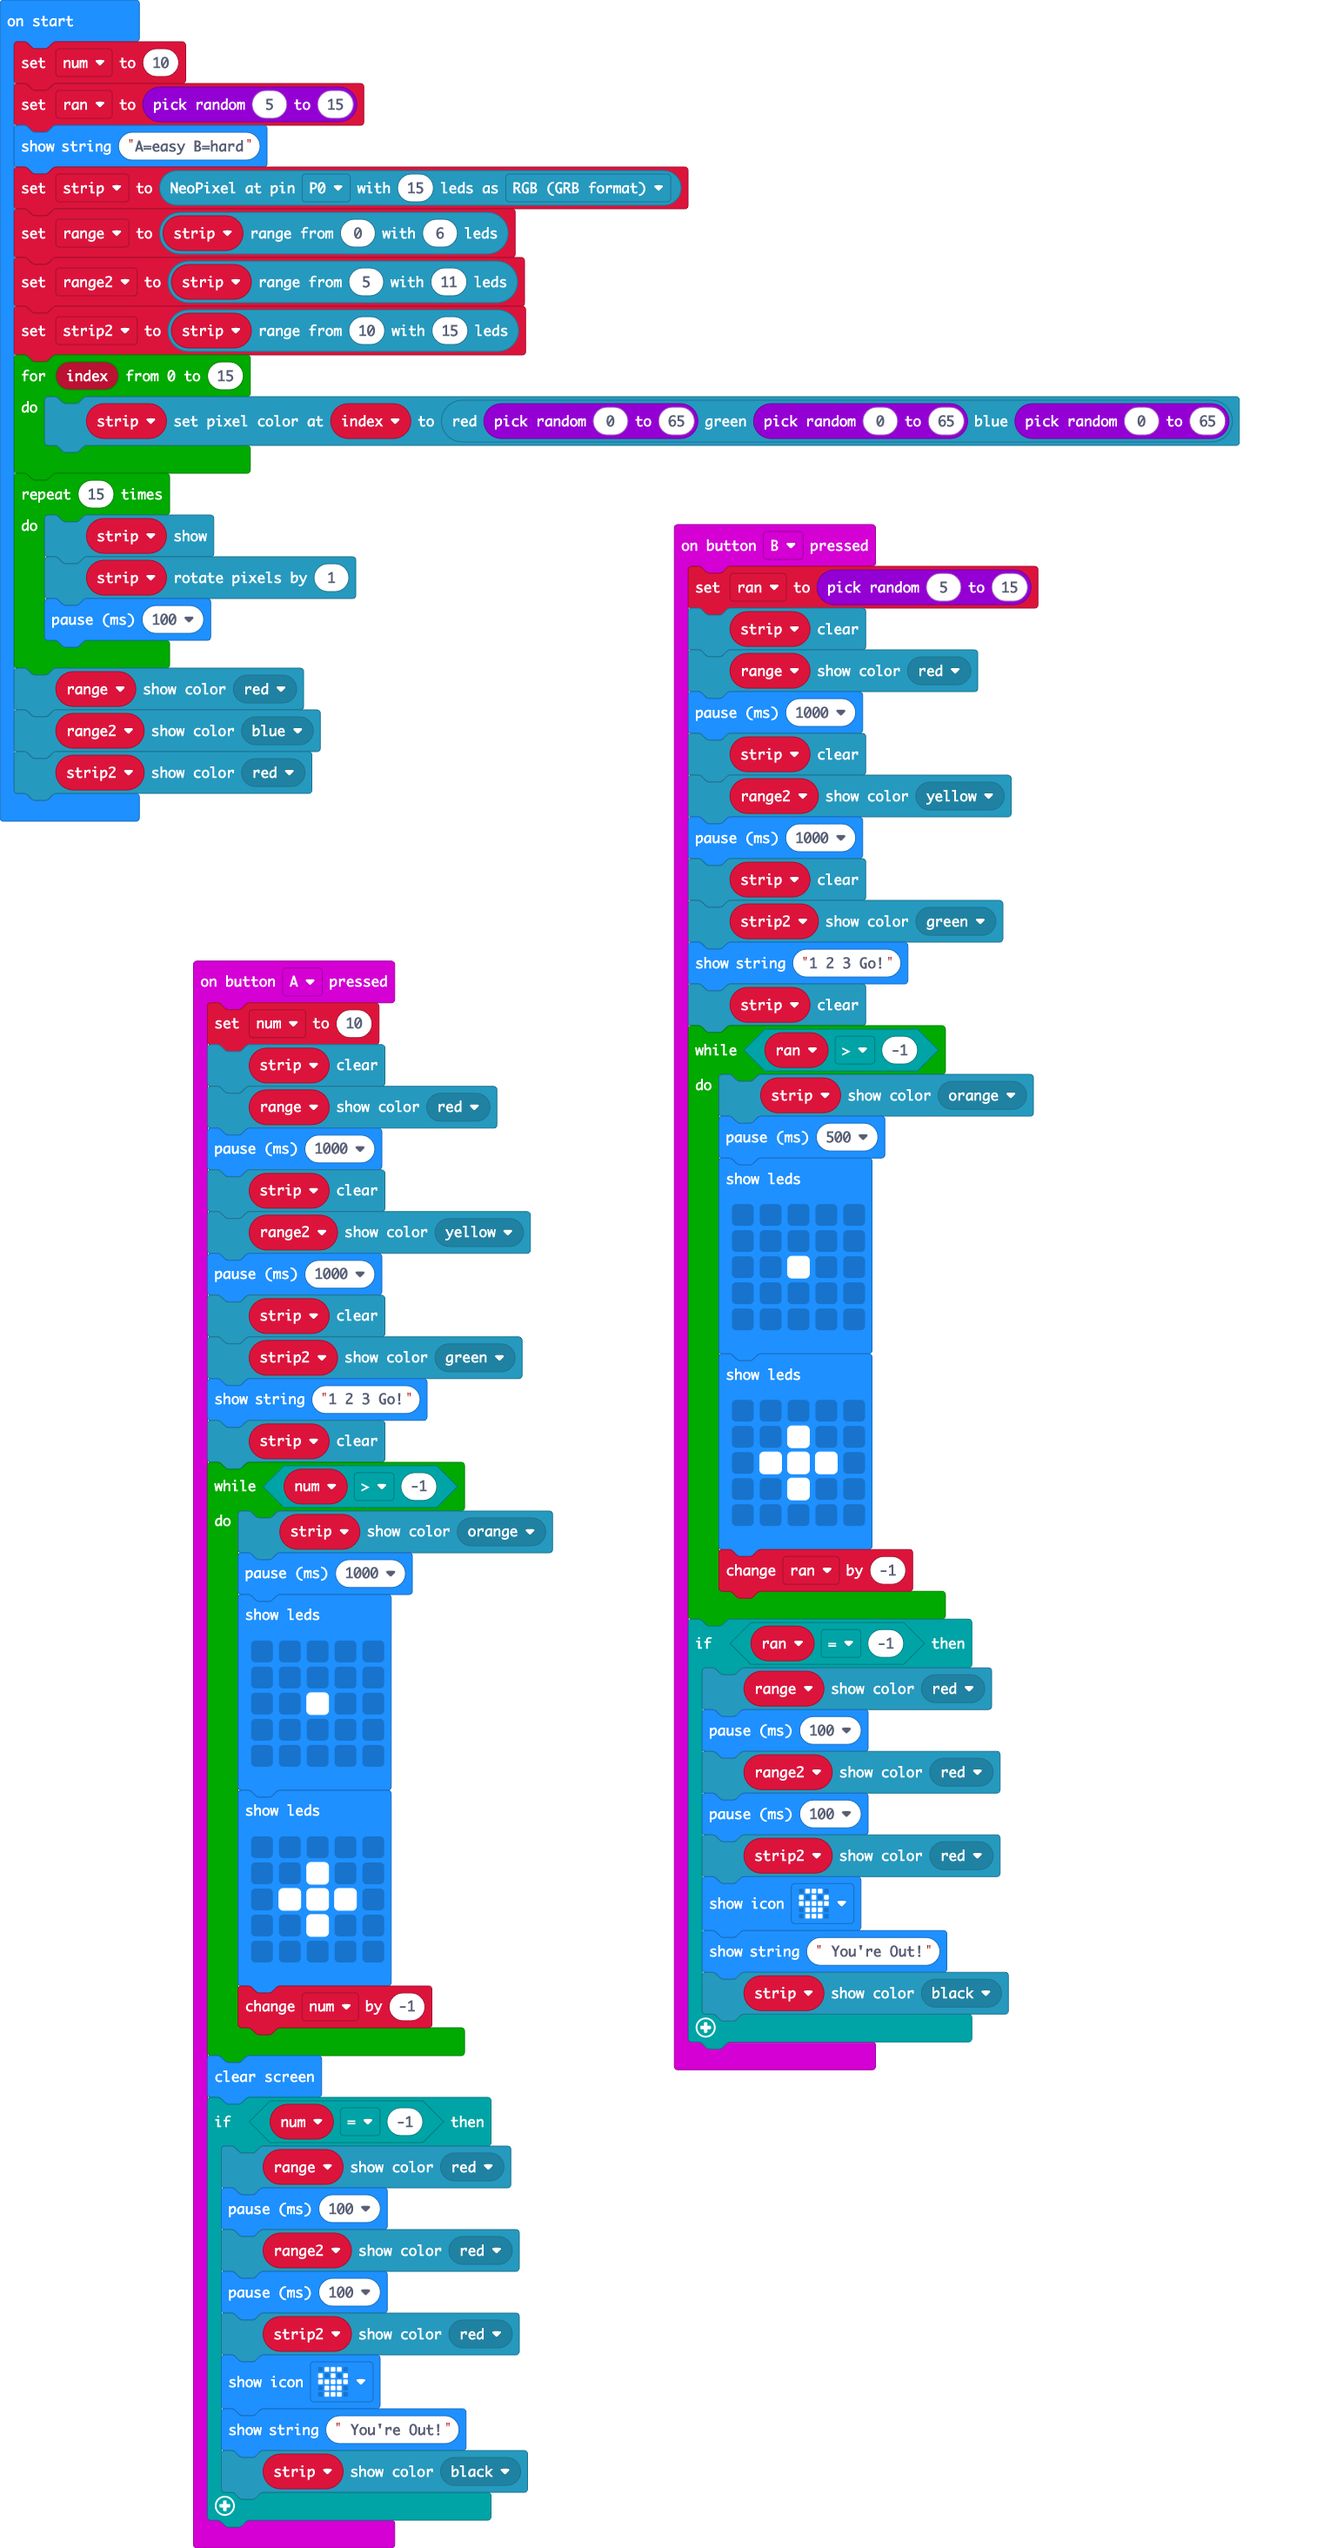
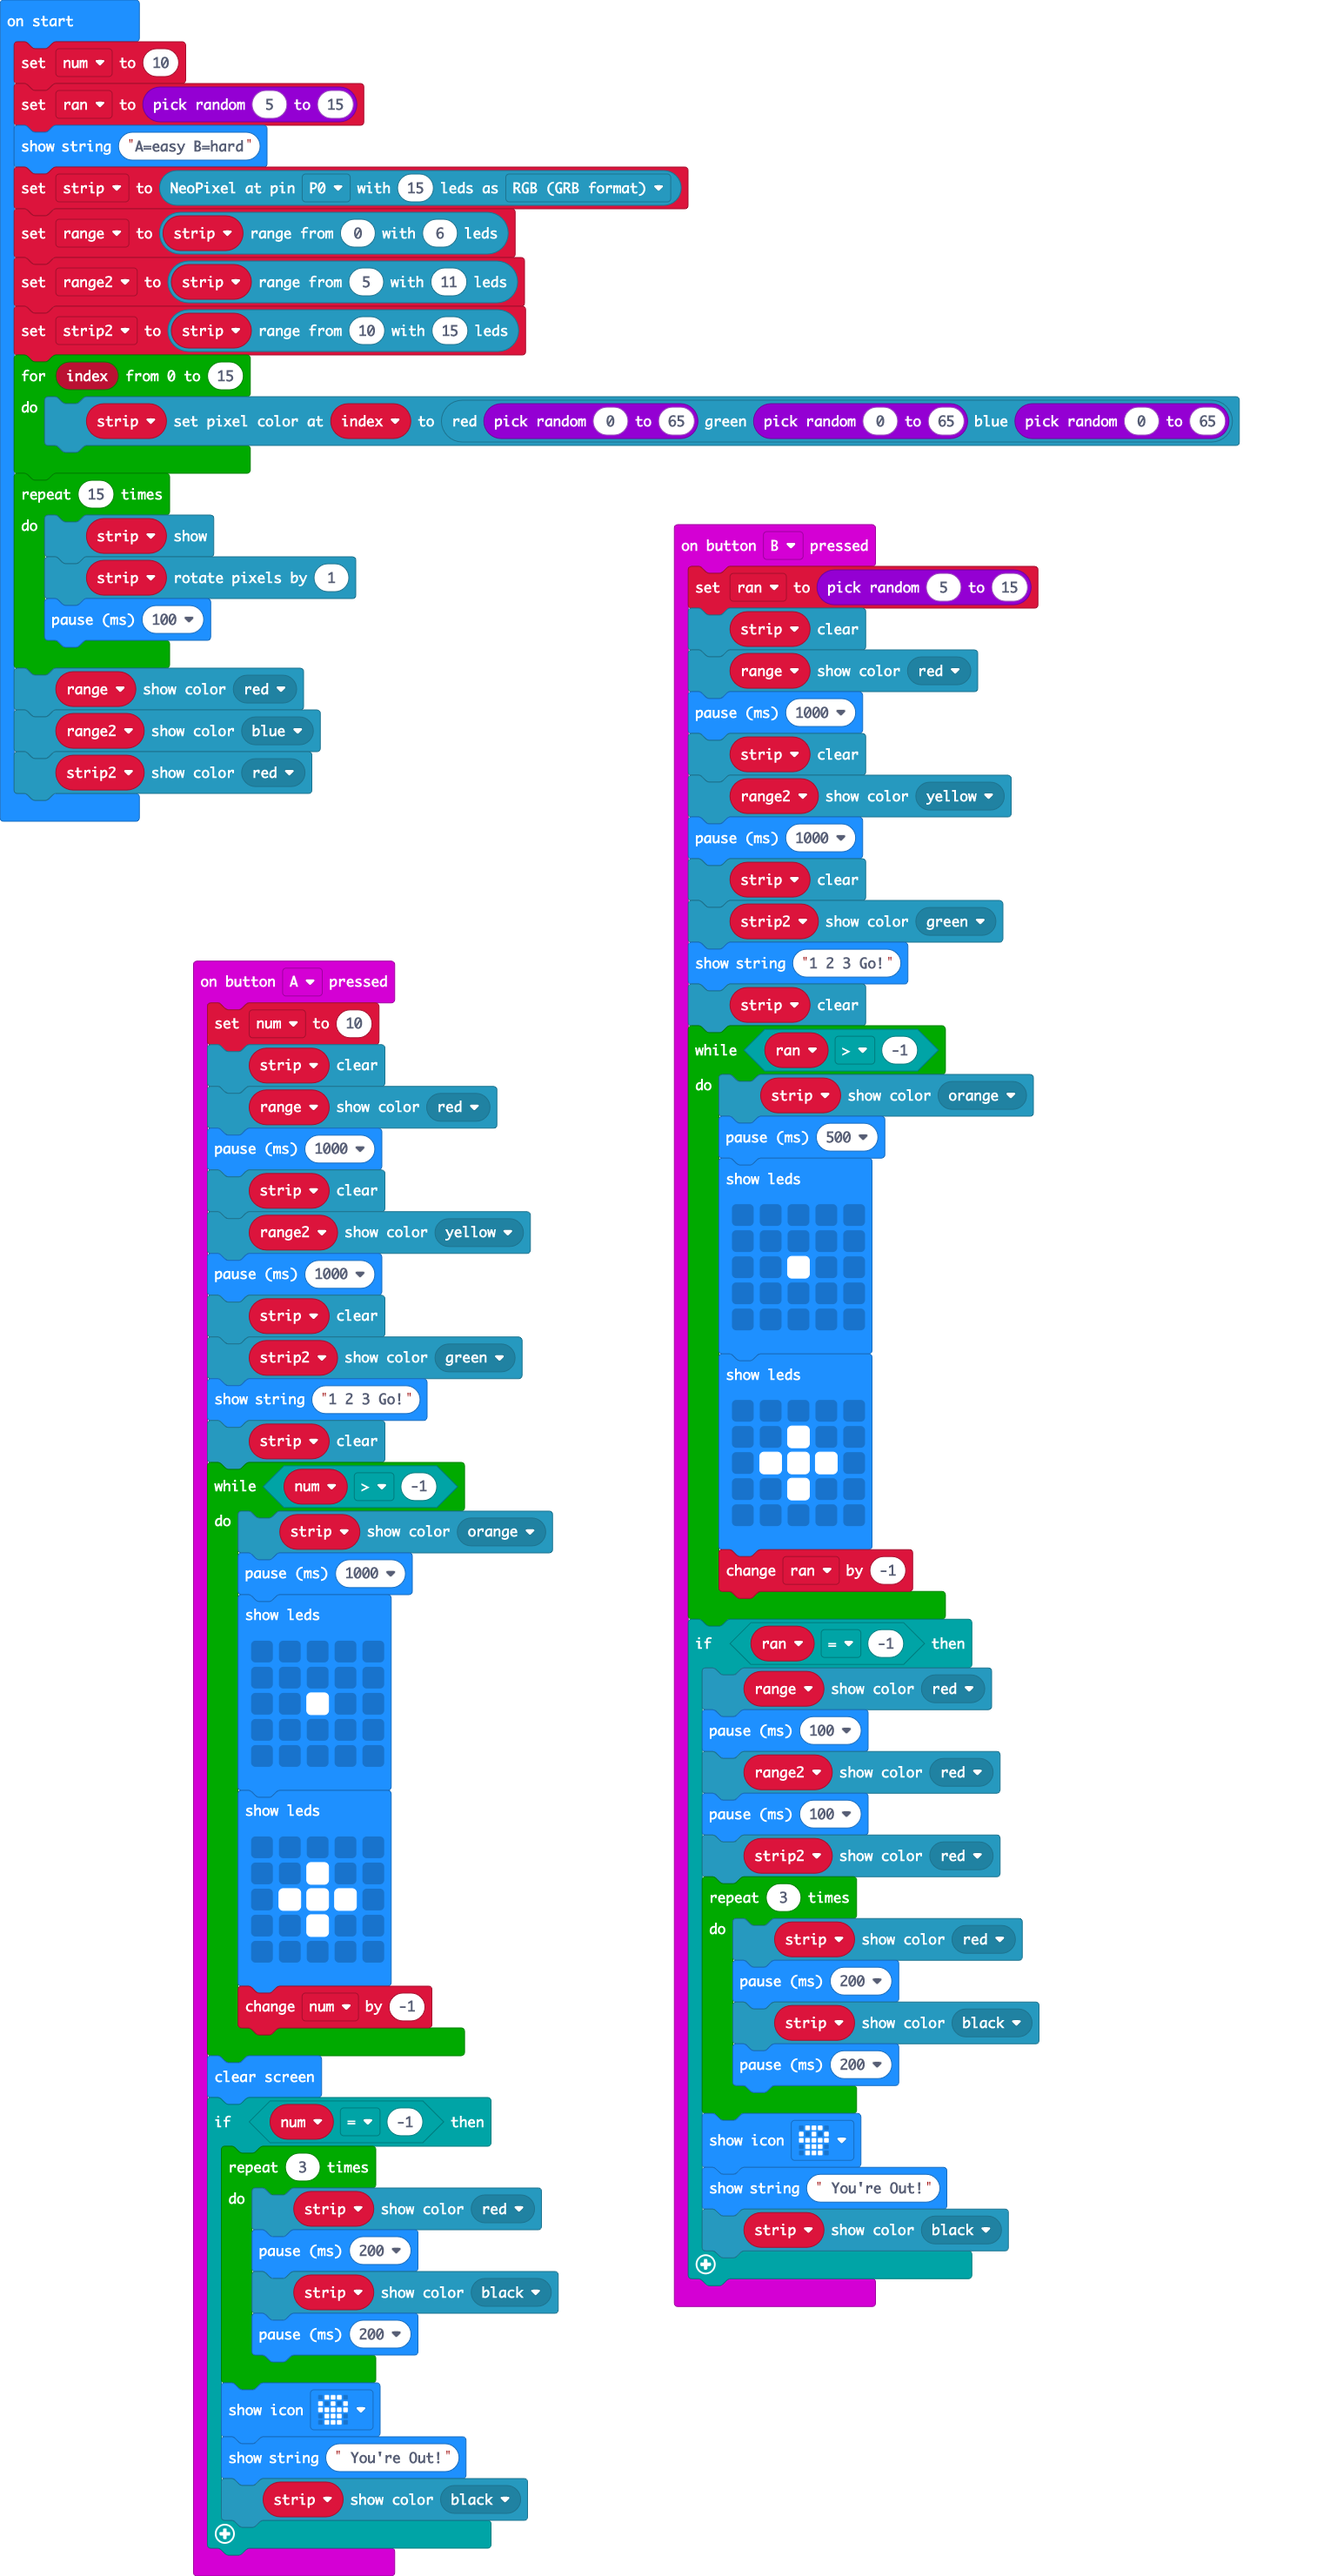
Update main.blocks, main.ts

Changed region(s): [[0.0, 0.0311, 0.9222, 0.901], [0.1537, 0.3728, 0.4303, 0.9942]]

diff --git a/main.ts b/main.ts
@@ -31,11 +31,12 @@ input.onButtonPressed(Button.A, function () {
     }
     basic.clearScreen()
     if (num == -1) {
-        range.showColor(neopixel.colors(NeoPixelColors.Red))
-        basic.pause(100)
-        range2.showColor(neopixel.colors(NeoPixelColors.Red))
-        basic.pause(100)
-        strip22.showColor(neopixel.colors(NeoPixelColors.Red))
+        for (let index = 0; index < 3; index++) {
+            strip2.showColor(neopixel.colors(NeoPixelColors.Red))
+            basic.pause(200)
+            strip2.showColor(neopixel.colors(NeoPixelColors.Black))
+            basic.pause(200)
+        }
         basic.showIcon(IconNames.Skull)
         basic.showString(" You're Out!")
         strip2.showColor(neopixel.colors(NeoPixelColors.Black))
@@ -78,6 +79,12 @@ input.onButtonPressed(Button.B, function () {
         range2.showColor(neopixel.colors(NeoPixelColors.Red))
         basic.pause(100)
         strip22.showColor(neopixel.colors(NeoPixelColors.Red))
+        for (let index = 0; index < 3; index++) {
+            strip2.showColor(neopixel.colors(NeoPixelColors.Red))
+            basic.pause(200)
+            strip2.showColor(neopixel.colors(NeoPixelColors.Black))
+            basic.pause(200)
+        }
         basic.showIcon(IconNames.Skull)
         basic.showString(" You're Out!")
         strip2.showColor(neopixel.colors(NeoPixelColors.Black))
